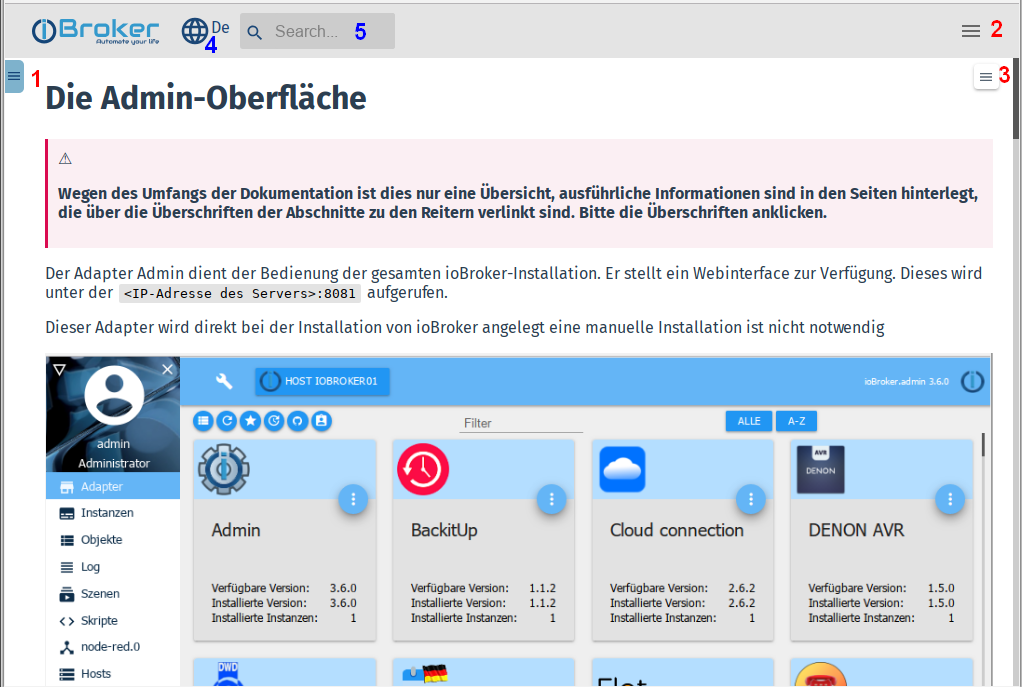
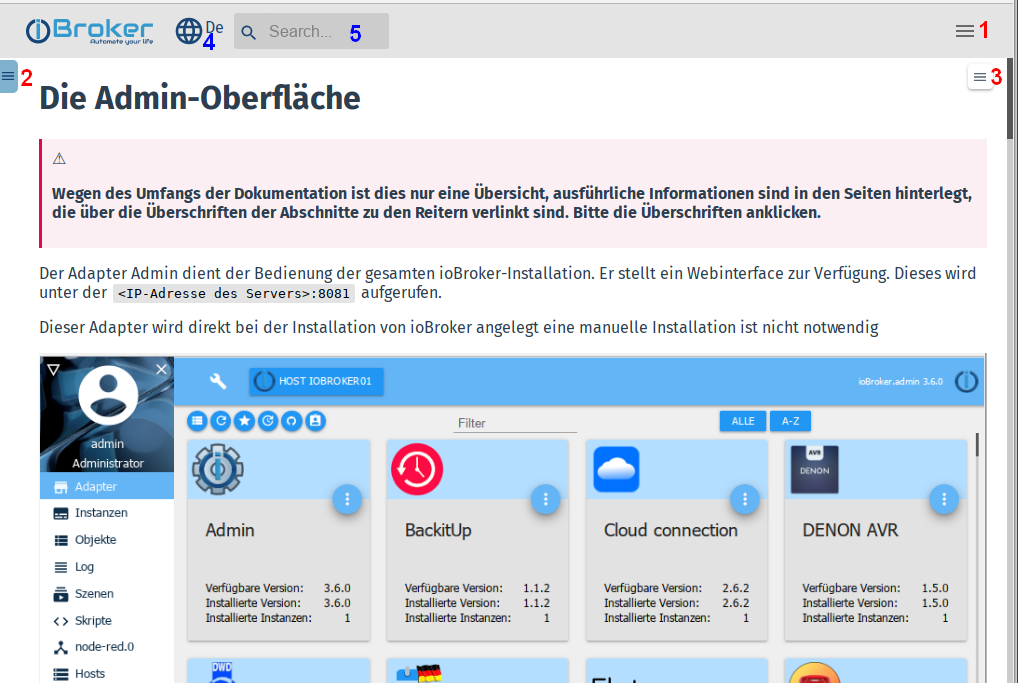
Order changed

Changed region(s): [[0.0, 0.0, 1.0, 1.0], [0.1827, 0.7687, 0.2741, 0.7994]]

diff --git a/docs/de/intro/README.md b/docs/de/intro/README.md
@@ -23,7 +23,19 @@ Um eine größtmögliche Übersicht zu erhalten gibt es insgesamt drei verschied
 ![Seiten-Menüs](media/Seite_numbers.png)
 
 
-**1.) Doku-Menü**
+**1.) Seitenmenü**
+
+Die Hauptpunkte dieses Menüs sind am PC üblicherweise in der Titelleiste der Seite sichtbar, 
+das gesamte Menü wird bei niedrigen Auflösungen ausgeblendet. Dann  muss es durch 
+Anklicken des Burger-Icons geöffnet werden:
+
+![Seiten-Menü](media/Seitenmenu.png)
+
+Nach Anklicken eines Menüpunktes schließt sich das Menü automatisch um mehr Platz 
+für den Inhalt zu machen.
+
+
+**2.) Doku-Menü**
 Dieses Menü ist am PC üblicherweise sichtbar, wird bei niedrigen Auflösungen 
 ausgeblendet. Dann  muss es durch Anklicken des Burger-Icons geöffnet werden:
 
@@ -34,17 +46,6 @@ gesamte Menübaum nach diesem Begriff gefiltert und nur noch passende Menüpunkt
 angezeigt.
 
 Über das Icon mit dem Pfeil kann das Menü wieder versteckt werden um mehr Platz 
-für den Inhalt zu machen.
-
-**2.) Seitenmenü**
-
-Die Hauptpunkte dieses Menüs sind am PC üblicherweise in der Titelleiste der Seite sichtbar, 
-das gesamte Menü wird bei niedrigen Auflösungen ausgeblendet. Dann  muss es durch 
-Anklicken des Burger-Icons geöffnet werden:
-
-![Seiten-Menü](media/Seitenmenu.png)
-
-Nach Anklicken eines Menüpunktes schließt sich das Menü automatisch um mehr Platz 
 für den Inhalt zu machen.
 
 **3.) Themenmenü**
